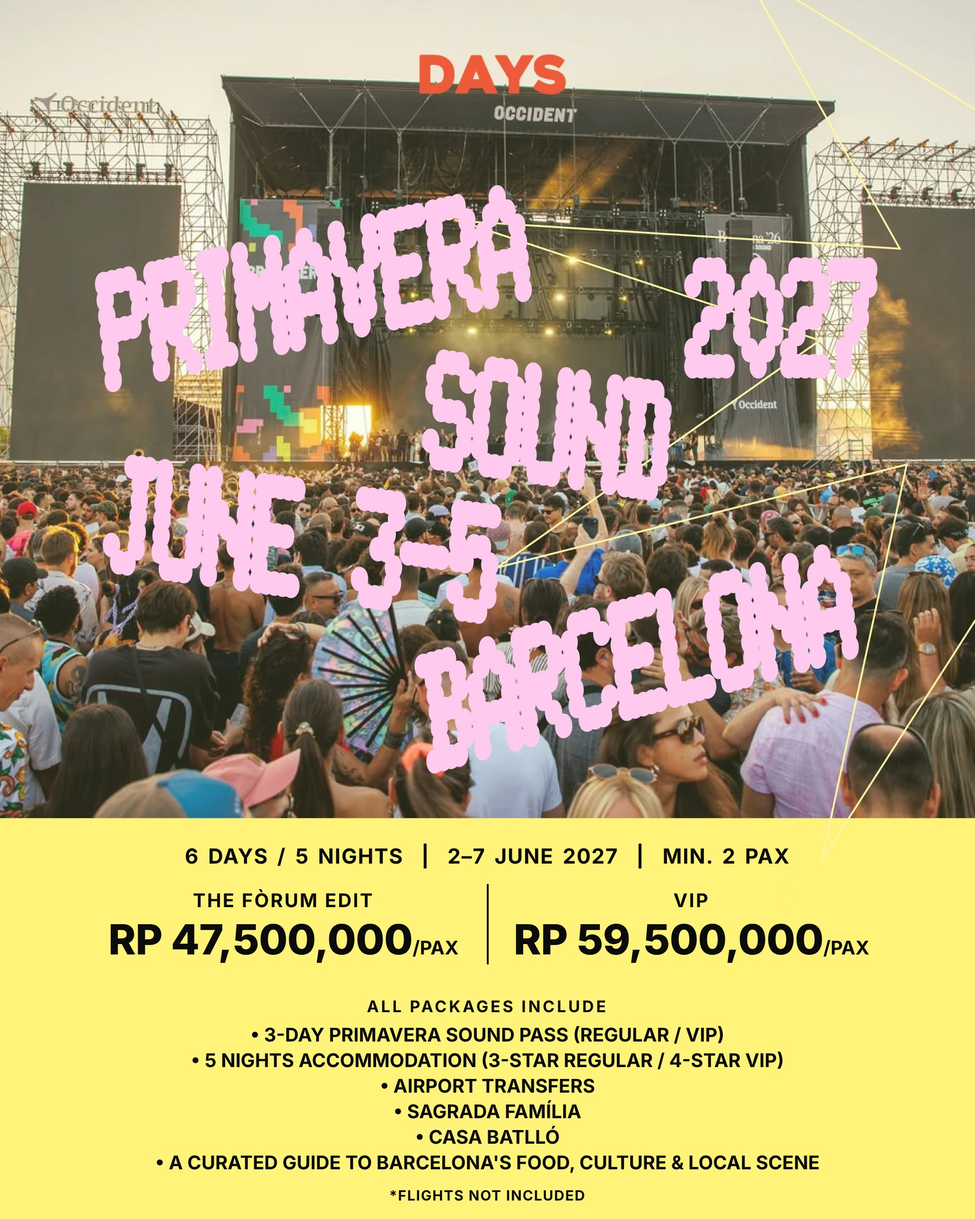
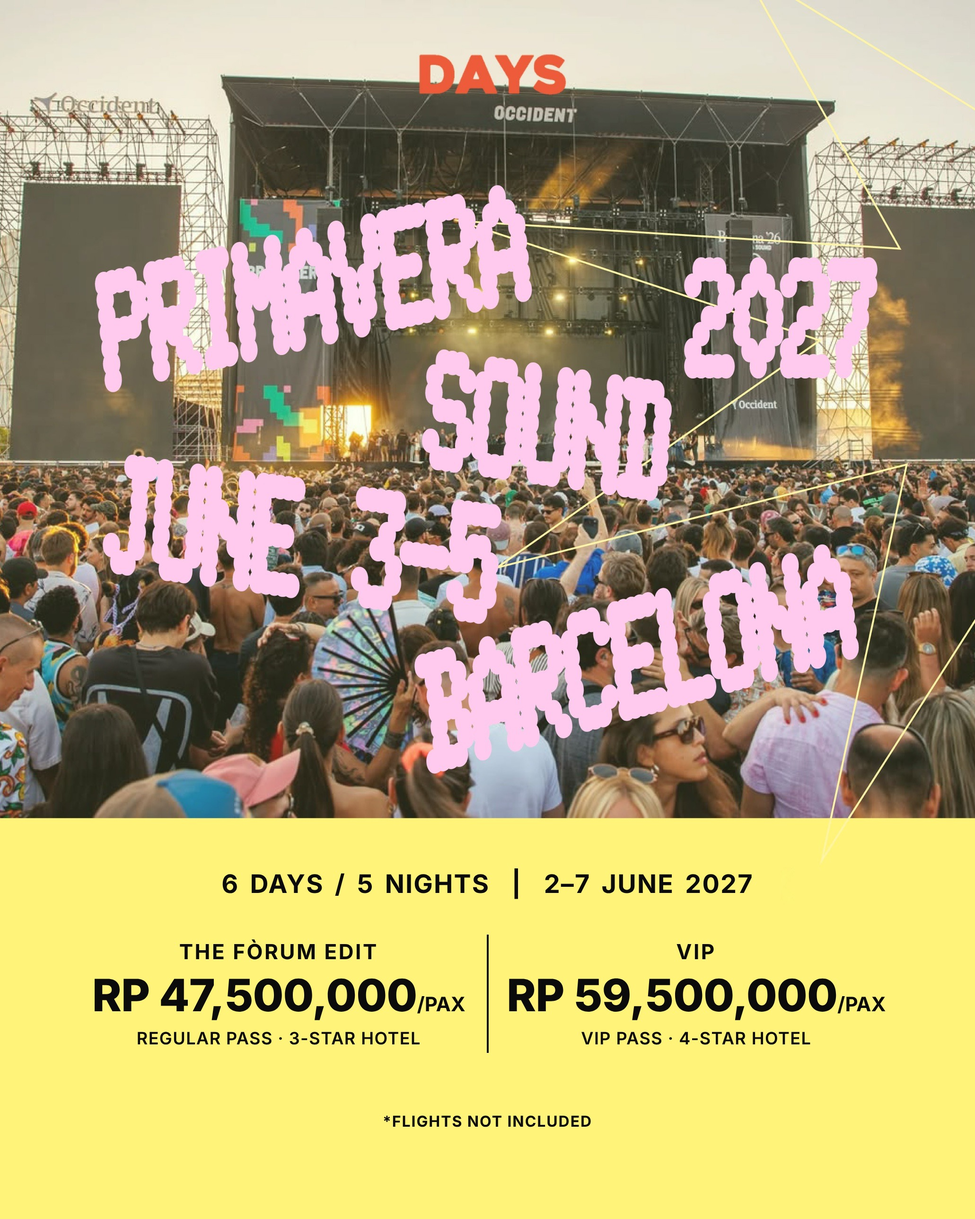
Primavera price poster: trim yellow panel to dates, two prices and flights note
Claude-Session: https://claude.ai/code/session_01Eb5aT6ze4JeyNUzcmVzEmL

Changed region(s): [[0.0932, 0.6832, 0.9005, 0.9938]]

diff --git a/social/primavera-2027/src/price.html b/social/primavera-2027/src/price.html
@@ -6,31 +6,21 @@
   .poster{position:relative;width:2061px;height:2576px;background:url(price-clean.png) 0 0/2061px 2576px no-repeat;
     font-family:'Inter',sans-serif;font-weight:700;color:#0b0b0b;text-transform:uppercase;text-align:center}
   .abs{position:absolute;left:0;right:0}
-  .meta{top:1782px;font-size:44px;letter-spacing:.04em;word-spacing:.15em}
-  .tiers{top:1868px;left:170px;right:170px;display:grid;grid-template-columns:1fr 4px 1fr;align-items:center}
-  .tiers .rule{height:170px;background:#0b0b0b}
-  .tier .name{font-size:40px;letter-spacing:.08em}
-  .tier .price{font-size:88px;letter-spacing:-.01em;line-height:1;margin-top:14px;font-weight:800}
-  .tier .price small{font-size:40px;font-weight:700;letter-spacing:0}
-  .inc{top:2106px;font-size:34px;letter-spacing:.14em}
-  .list{top:2160px;font-size:40px;line-height:54px}
-  .note{top:2508px;font-size:30px;letter-spacing:.06em}
+  .meta{top:1835px;font-size:54px;letter-spacing:.04em;word-spacing:.15em}
+  .tiers{top:1975px;left:150px;right:150px;display:grid;grid-template-columns:1fr 4px 1fr;align-items:center}
+  .tiers .rule{height:250px;background:#0b0b0b}
+  .tier .name{font-size:44px;letter-spacing:.08em}
+  .tier .price{font-size:94px;letter-spacing:-.01em;line-height:1;margin-top:18px;font-weight:800}
+  .tier .price small{font-size:42px;font-weight:700;letter-spacing:0}
+  .tier .what{font-size:36px;letter-spacing:.04em;margin-top:22px;font-weight:600}
+  .note{top:2350px;font-size:32px;letter-spacing:.06em}
 </style></head><body>
 <div class="poster" id="poster">
-  <p class="abs meta">6 Days / 5 Nights &nbsp;|&nbsp; 2–7 June 2027 &nbsp;|&nbsp; Min. 2 Pax</p>
+  <p class="abs meta">6 Days / 5 Nights &nbsp;|&nbsp; 2–7 June 2027</p>
   <div class="abs tiers">
-    <div class="tier"><p class="name">The Fòrum Edit</p><p class="price">Rp 47,500,000<small>/pax</small></p></div>
+    <div class="tier"><p class="name">The Fòrum Edit</p><p class="price">Rp 47,500,000<small>/pax</small></p><p class="what">Regular pass · 3-star hotel</p></div>
     <div class="rule"></div>
-    <div class="tier"><p class="name">VIP</p><p class="price">Rp 59,500,000<small>/pax</small></p></div>
-  </div>
-  <p class="abs inc">All packages include</p>
-  <div class="abs list">
-    <p>• 3-day Primavera Sound pass (Regular / VIP)</p>
-    <p>• 5 nights accommodation (3-star Regular / 4-star VIP)</p>
-    <p>• Airport transfers</p>
-    <p>• Sagrada Família</p>
-    <p>• Casa Batlló</p>
-    <p>• A curated guide to Barcelona's food, culture &amp; local scene</p>
+    <div class="tier"><p class="name">VIP</p><p class="price">Rp 59,500,000<small>/pax</small></p><p class="what">VIP pass · 4-star hotel</p></div>
   </div>
   <p class="abs note">*Flights not included</p>
 </div>
